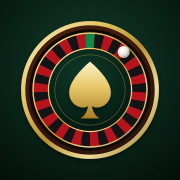
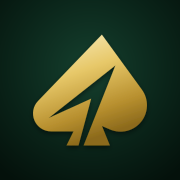
Give the pit a mark of its own: a gold spade cut by an arrow
The roulette wheel of the old icon blurred into a spot below 32 px. The new mark is one solid shape that still reads as a spade in a browser tab. It replaces the app icons, the lobby's header and the mark on the link preview; tools/generate-icons.sh rebuilds every install icon from icon.svg.

diff --git a/index.html b/index.html
@@ -36,26 +36,15 @@
   <header class="topbar">
     <div class="brand">
       <span class="brand-mark" aria-hidden="true">
-        <svg viewBox="0 0 64 64" width="44" height="44" focusable="false">
+        <svg viewBox="0 0 405 394.1" width="44" height="44" focusable="false">
           <defs>
-            <linearGradient id="pitRing" x1="0" y1="0" x2="1" y2="1">
-              <stop offset="0%" stop-color="#f7ecc0"/><stop offset="30%" stop-color="#e6c869"/>
-              <stop offset="55%" stop-color="#b8902f"/><stop offset="80%" stop-color="#f0dd9a"/>
-              <stop offset="100%" stop-color="#8c6a1c"/>
-            </linearGradient>
-            <linearGradient id="pitSpade" x1="0" y1="0" x2="0" y2="1">
-              <stop offset="0%" stop-color="#fbf1c8"/><stop offset="45%" stop-color="#e7c869"/>
-              <stop offset="100%" stop-color="#a87d24"/>
+            <linearGradient id="pitGold" x1="0" y1="0" x2=".35" y2="1">
+              <stop offset="0%" stop-color="#fbf1c8"/><stop offset="42%" stop-color="#e7c869"/>
+              <stop offset="78%" stop-color="#b8902f"/><stop offset="100%" stop-color="#8c6a1c"/>
             </linearGradient>
           </defs>
-          <circle cx="32" cy="32" r="29" fill="#08231a"/>
-          <circle cx="32" cy="32" r="28" fill="none" stroke="url(#pitRing)" stroke-width="2.6"/>
-          <circle cx="32" cy="32" r="21.5" fill="none" stroke="#7d1219" stroke-width="7" stroke-dasharray="3.65 3.65"/>
-          <circle cx="32" cy="32" r="21.5" fill="none" stroke="#151516" stroke-width="7" stroke-dasharray="3.65 3.65" stroke-dashoffset="3.65"/>
-          <circle cx="32" cy="32" r="25.2" fill="none" stroke="url(#pitRing)" stroke-width="1"/>
-          <circle cx="32" cy="32" r="17.8" fill="none" stroke="url(#pitRing)" stroke-width="1"/>
-          <path fill="url(#pitSpade)" transform="translate(32 32) scale(.1) translate(-256 -259)"
-                d="M256 150C256 150 336 214 336 268C336 304 310 326 282 326C274 326 268 324 263 320C266 340 274 356 292 368L220 368C238 356 246 340 249 320C244 324 238 326 230 326C202 326 176 304 176 268C176 214 256 150 256 150Z"/>
+          <!-- The pit's spade, as in icon.svg -->
+          <path fill="url(#pitGold)" d="M244.7 0L387 195.7A94 94 0 0 1 275 337.9L245 325.1L273.3 394.1L179.8 394.1L293 109.4L55.7 296.6L206.8 227.5L161.8 394.1L119 394.1L144 344.1L63.9 344.1A63.9 63.9 0 0 1 17.8 235.9Z"/>
         </svg>
       </span>
       <div class="brand-text">

diff --git a/sw.js b/sw.js
@@ -3,7 +3,7 @@
    Free software with ABSOLUTELY NO WARRANTY; see LICENSE for the terms. */
 /* Service worker — caches the lobby and every table for full offline play.
    Only used when the pit is served over http(s); on file:// it is skipped. */
-var CACHE_VERSION = "pit-v35";
+var CACHE_VERSION = "pit-v36";
 var APP_ROOT = new URL("./", self.location.href || self.location.origin + "/");
 var CACHE_PREFIX = "pit-" + encodeURIComponent(APP_ROOT.pathname) + "-";
 var CACHE = CACHE_PREFIX + CACHE_VERSION.slice(4);

diff --git a/README.md b/README.md
@@ -197,7 +197,7 @@ npm run test:browser
 
 ## Development
 
-There is no build step: edit a file and reload the page. Whenever a change touches a file the pit ships, bump `CACHE_VERSION` in `sw.js` so that installed copies pick up the new version; the update waits until no round is in play. `tools/generate-card-audio.sh` rebuilds the card-table samples in `shared/audio/` and `tools/generate-roulette-audio.sh` the roulette ones, with ffmpeg.
+There is no build step: edit a file and reload the page. Whenever a change touches a file the pit ships, bump `CACHE_VERSION` in `sw.js` so that installed copies pick up the new version; the update waits until no round is in play. `tools/generate-card-audio.sh` rebuilds the card-table samples in `shared/audio/` and `tools/generate-roulette-audio.sh` the roulette ones, with ffmpeg; `tools/generate-icons.sh` rebuilds the install icons from `icon.svg` with rsvg-convert and ImageMagick.
 
 A new table lives in its own folder under `games/`. It loads `shared/css/pit.css` and `shared/css/table.css` before its own stylesheet, `shared/js/pit.js` and `shared/js/i18n.js` first and `shared/js/pwa.js` last, adds its own words with `I18n.define()` (a word the pit already has can never be redefined), keeps its own data under `pit.<table>.*`, and joins `Pit.TABLES`, the lobby and the cache list in `sw.js`.
 
@@ -237,7 +237,7 @@ sw.js                      offline cache for the whole pit (only used over http)
 icon.svg                   app icon (apple-touch-icon.png: iOS home-screen PNG)
 assets/icons/              PNG install icons (192, 512 and a maskable 512)
 assets/social-preview.jpg  1200×630 link-preview image
-tools/                     reproducible local audio generators
+tools/                     reproducible local audio and icon generators
 tests/                     dependency-free tests for every table, the lobby and the site
 tests/browser/             optional real-browser suites (Puppeteer, development only)
 .github/workflows/         continuous integration for the core suite

diff --git a/CHANGELOG.md b/CHANGELOG.md
@@ -9,6 +9,7 @@ The first release of the pit: nine tables, a money wheel, a slot machine, a vide
 ### The pit
 
 - A lobby that shows the play-money balance and leads to each table, with the language, the table cloth and *Add play money* in its settings, its tables laid out in rows: one on a phone, two on a tablet, four on a wide screen, with a last row that is not full centred.
+- The pit's mark: a gold spade on the green cloth, its point leaning right and cut through by a narrow arrow that parts the stem into two feet, on the app icons, in the lobby's header and on the link preview.
 - The lobby's *Your play*: every table's rounds, wagered, returned, net and return per dollar, with the pit's total.
 - One play-money balance shared by every table, guarded by a single Web Lock across pages and tabs; without Web Locks each tab keeps its own session balance.
 - One round at a time across the pit: a hand or a spin left unfinished at one table is played out there before another table takes a bet, and the lobby marks that table.
